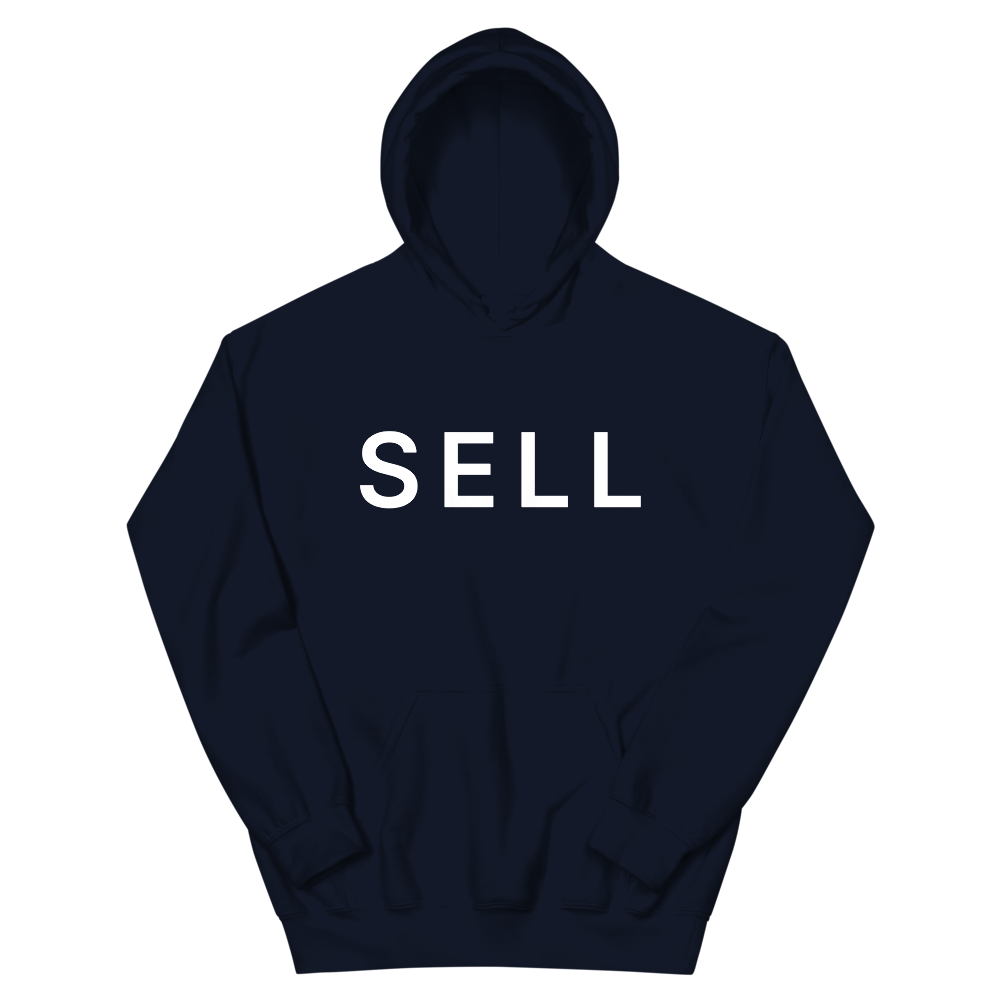
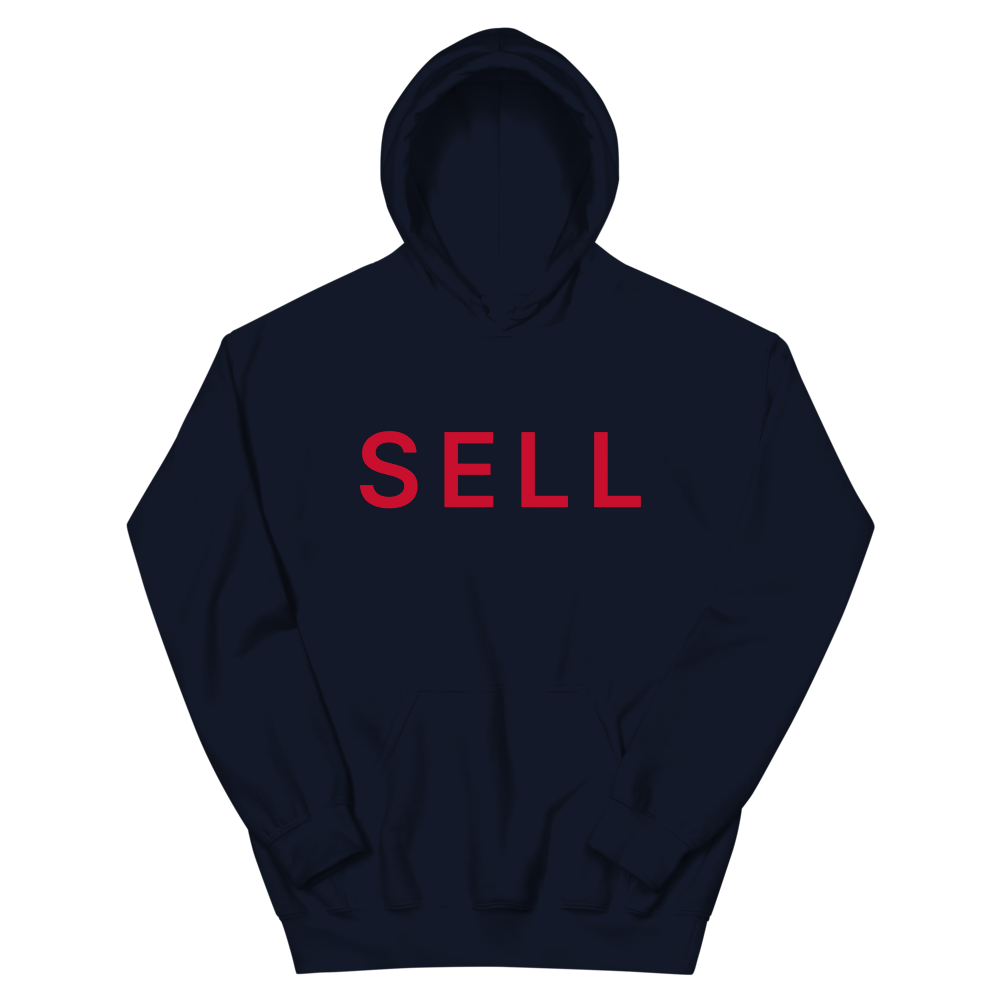
Correct NFL hoodie artwork ink colors

Changed region(s): [[0.341, 0.434, 0.651, 0.527]]

diff --git a/lib/art.ts b/lib/art.ts
@@ -1,5 +1,5 @@
 // Bump when the shirt artwork or photos change: Printful caches print files by
 // URL and next/image caches optimized photos by URL, so a new number makes
 // both fetch fresh copies.
-export const ART_VERSION = 40;
+export const ART_VERSION = 41;
 
